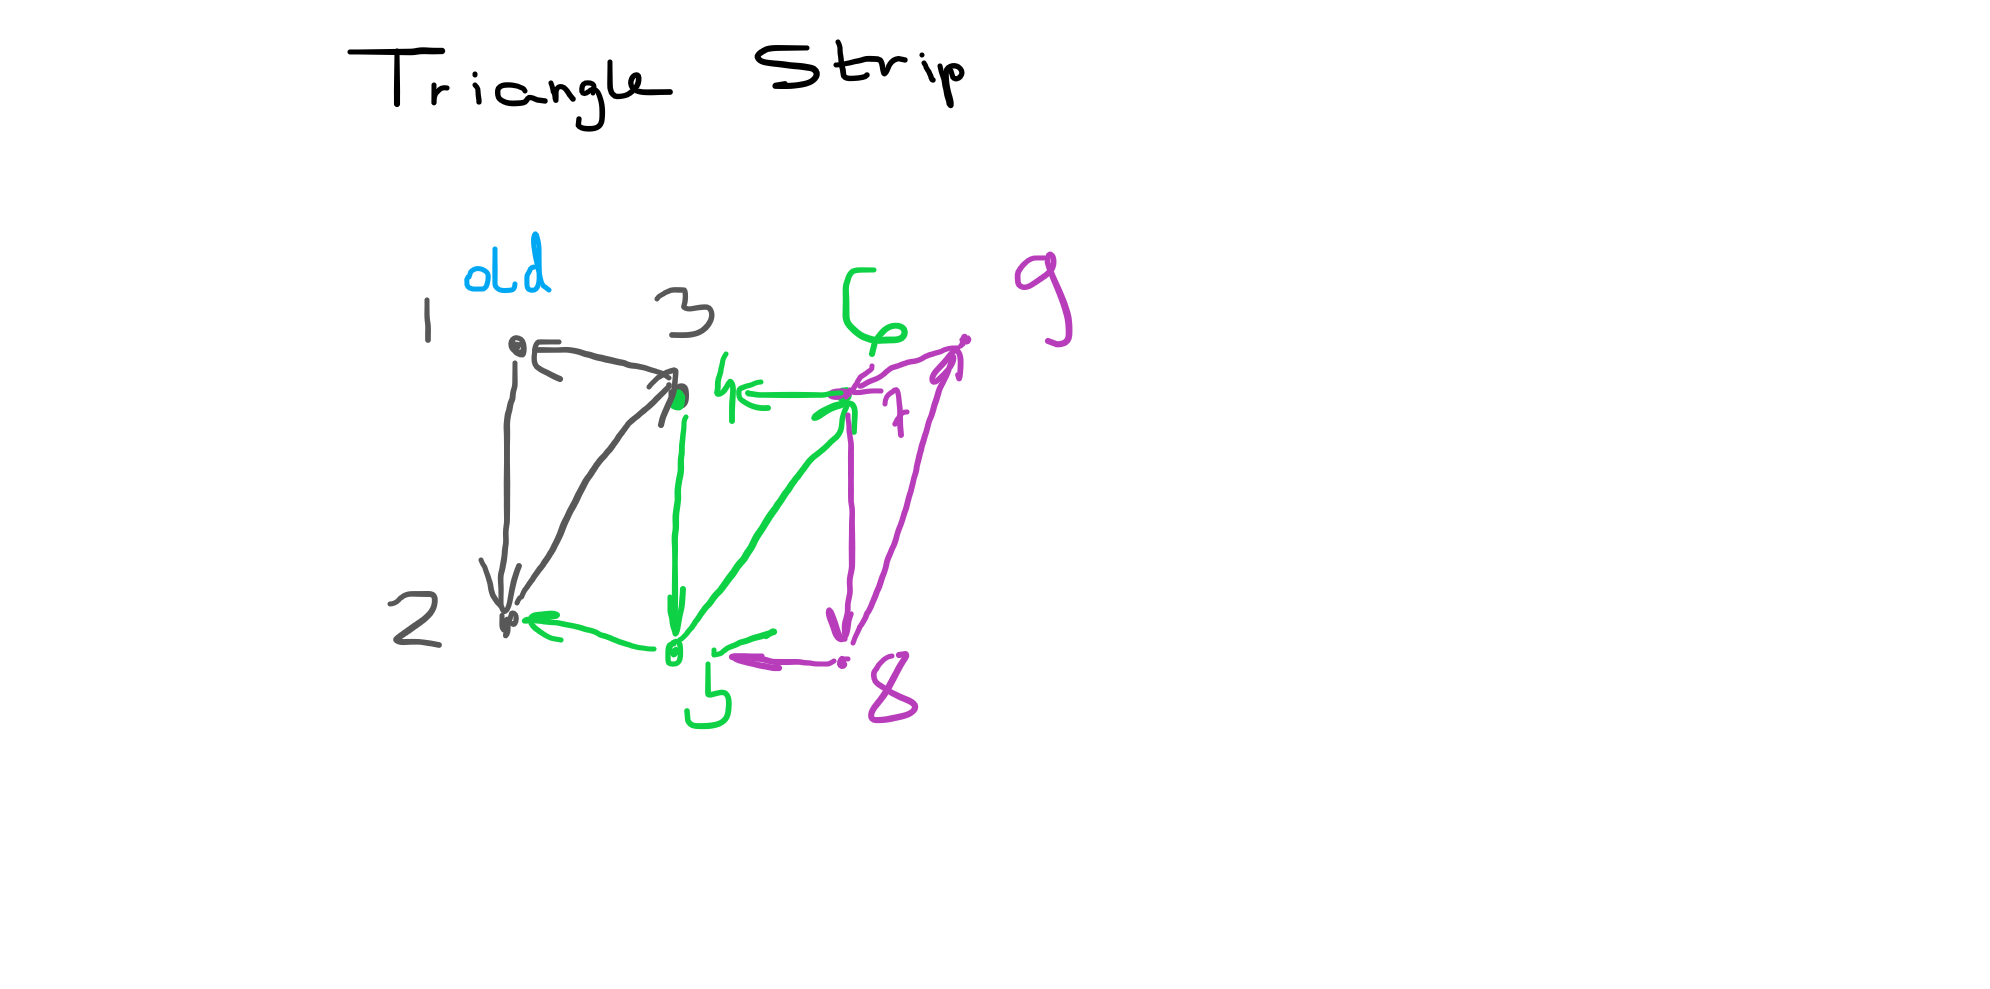
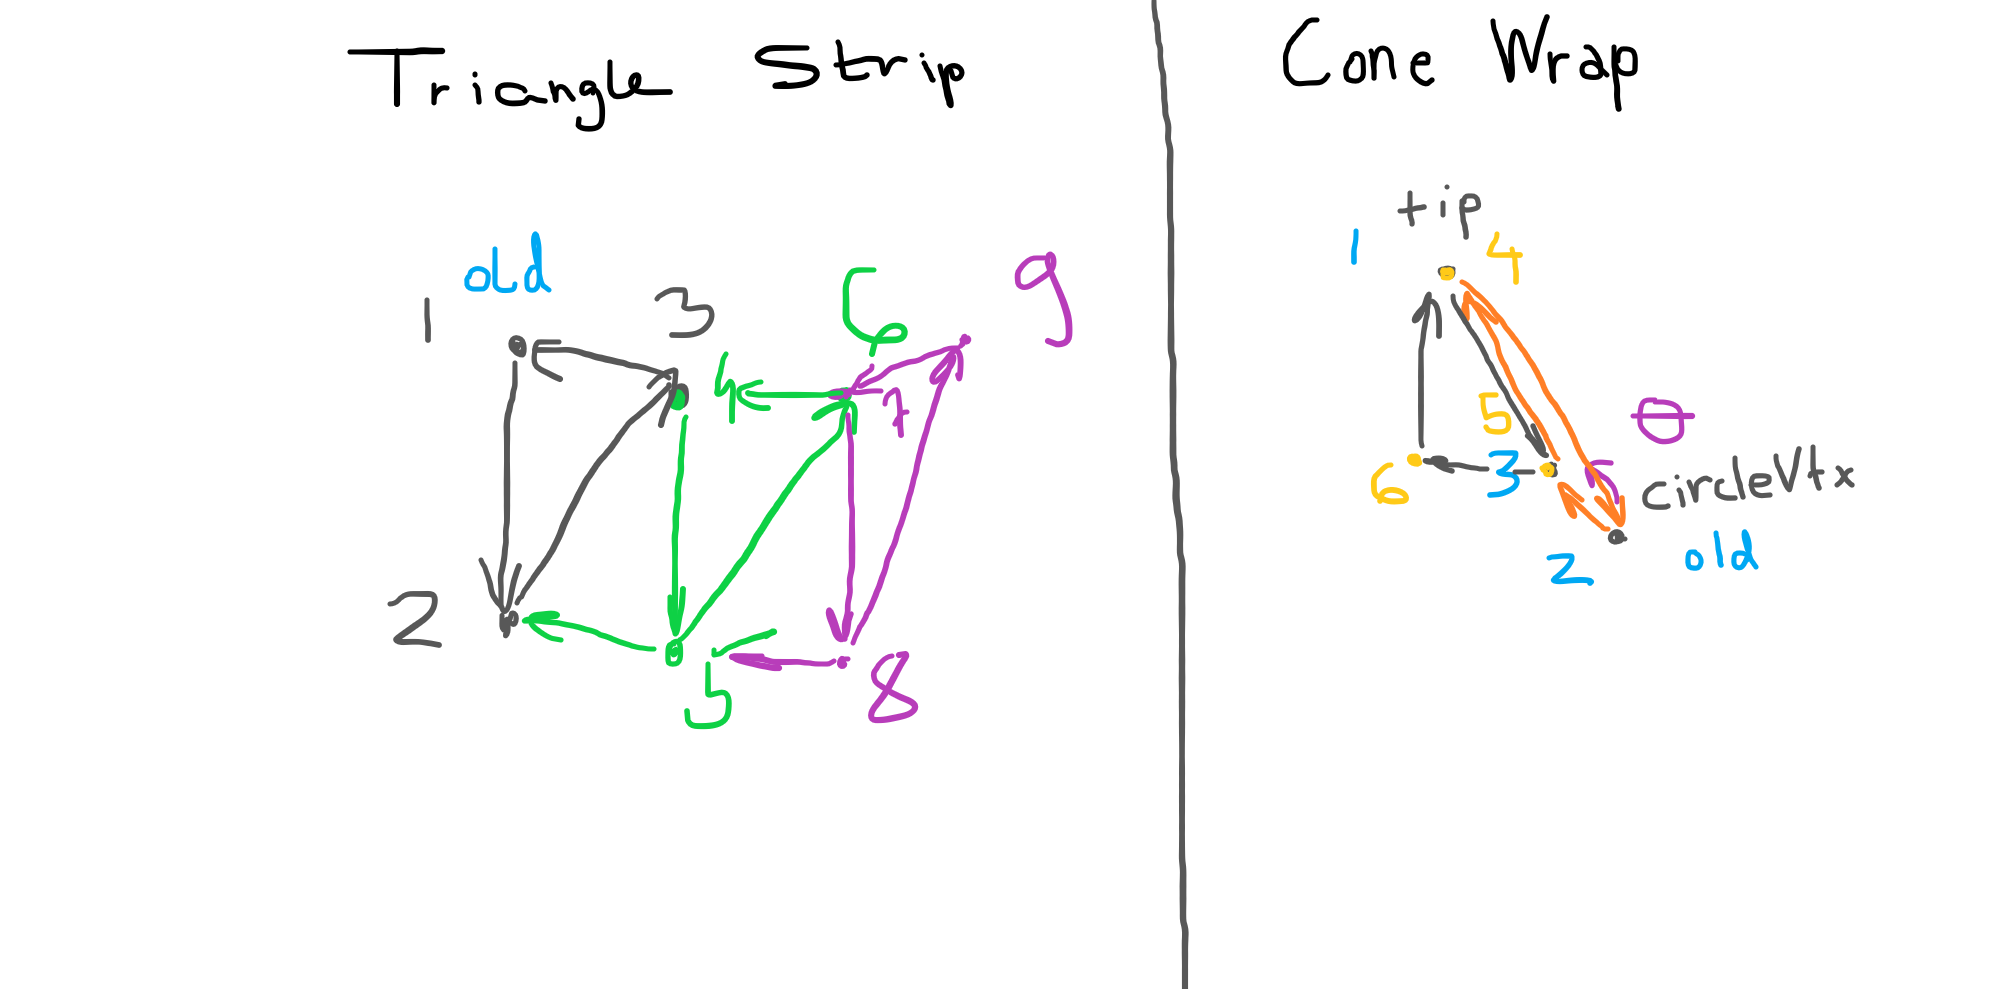
kupa osvetljena ispravno, poprecni presek

diff --git a/GeometrySolverWeb/public/main.js b/GeometrySolverWeb/public/main.js
@@ -266,6 +266,7 @@ function resetNotification()
     let notification = document.getElementById("notification");
     notification.style.backgroundColor = "rgb(90, 90, 95)";
     notification.innerHTML = "";
+    notification.style.color = "white";
 }
 
 let figureInput = document.createElement("div");
@@ -451,6 +452,7 @@ socket.on("message", message =>{
     let notification = document.getElementById("notification");
     notification.style.backgroundColor = "rgb(224, 164, 224)";
     notification.innerHTML = message;
+    notification.style.color = "black";
     setTimeout(resetNotification,2000);
 });
 
@@ -458,7 +460,6 @@ socket.on("comment",comment=>{
     let listaKomentara = document.getElementById("commentList");
     listaKomentara.value+=comment+"\n\n";
     listaKomentara.scrollTop = listaKomentara.scrollHeight;
-
 });
 
 // Data to be inserted
@@ -611,6 +612,7 @@ function drawCircle(dense,r)
     circleVertex = [size,0.0,0.0];
     vertexData.push(...circleVertex);
     colorData.push(...modelColor());
+    normalData.push(...[0.0,1.0,0.0]);
     for(i=0;i<density;i++)
     {
         circleVertex = [cosine*circleVertex[0]+sine*circleVertex[2],0.0,-sine*circleVertex[0]+cosine*circleVertex[2]];
@@ -618,8 +620,10 @@ function drawCircle(dense,r)
         vertexData.push(...circleVertex);
         colorData.push(...modelColor());
         colorData.push(...modelColor());
+        normalData.push(...[0.0,1.0,0.0]);
+        normalData.push(...[0.0,1.0,0.0]);
     }
-    webgl(gl.TRIANGLE_FAN,false);
+    webgl(gl.LINE_STRIP,false);
 }
 
 function drawCone(a,h,dense)
@@ -637,27 +641,17 @@ function drawCone(a,h,dense)
         let theta = (Math.PI*2)/density;
         let cosine = Math.cos(theta);
         let sine = Math.sin(theta);
+        circleVertex = [size,0.0,0.0];
 
         for(i=0;i<=density;i++)
         {
-            if(i==0)
-            {
-                coneTipVertex = [0.0,h,0.0];
-                vertexData.push(...coneTipVertex);
-                colorData.push(...modelColor());
-
-                normalData.push(...[0.0,1.0,0.0]);
-
-                circleVertex = [size,0.0,0.0];
-                vertexData.push(...circleVertex);
-                colorData.push(...modelColor());
-            }
-            else
-            {
-                vertexData.push(...circleVertex);
-                colorData.push(...modelColor());
-            }
+            coneTipVertex = [0.0,h,0.0];
+            vertexData.push(...coneTipVertex);
+            colorData.push(...modelColor());
             
+            vertexData.push(...circleVertex);
+            colorData.push(...modelColor());
+
             vector1=[circleVertex[0]-coneTipVertex[0],circleVertex[1]-coneTipVertex[1],circleVertex[2]-coneTipVertex[2]];
 
             circleVertexOld = circleVertex;
@@ -682,11 +676,8 @@ function drawCone(a,h,dense)
             normalData.push(...normalVector);
             normalData.push(...normalVector);
 
-            circleVertex = [cosine*circleVertex[0]+sine*circleVertex[2],0.0,-sine*circleVertex[0]+cosine*circleVertex[2]];
-            vertexData.push(...circleVertex);
-            colorData.push(...modelColor());
         }
-        webgl(gl.TRIANGLE_FAN,true);
+        webgl(gl.TRIANGLES,false);
     }
         
 }
@@ -765,7 +756,7 @@ function drawCylinder(a,b,dense)
             vertexData.push(...wrapVertexBottom);
             colorData.push(...modelColor());
         }
-        webgl(gl.TRIANGLE_STRIP,true);
+        webgl(gl.TRIANGLE_STRIP,false);
     }
 }
 

diff --git a/GeometrySolverWeb/server.js b/GeometrySolverWeb/server.js
@@ -17,6 +17,7 @@ const server = http.createServer(app);
 const io = socketio(server);
 const botName = "GeometrySolverBot";
 const port = 3000;
+var logUserSessions = false;
 
 mongoose.connect("mongodb://localhost:27017/GeometrySolver");
 
@@ -29,7 +30,10 @@ io.on("connection", socket =>{
 
   socket.emit("message",`${moment().format('LT')}: Dobrodosli u GeometrySolver`);
   // io.emit("comment",`#${botName}#: "${socket.id} has entered comment section"`);
-  console.log(`"#${socket.id}# has entered comment section"`);
+  if(logUserSessions == true)
+  {
+    console.log(`"#${socket.id}# has entered comment section"`);
+  }
 
   socket.on("comment",msg=>{
         const user = socket.id;
@@ -40,7 +44,10 @@ io.on("connection", socket =>{
     const user = socket.id;
     if(user){
         io.emit("comment",`#${botName}#: "${user} has left comment section"`);
-        console.log(`"#${socket.id}# has left comment section"`)
+        if(logUserSessions == true)
+        {
+          console.log(`"#${socket.id}# has left comment section"`)
+        }
     }
   })
 

diff --git a/GeometrySolverWeb/public/main.css b/GeometrySolverWeb/public/main.css
@@ -35,10 +35,12 @@ canvas
     flex:1 0;
     border-top-right-radius: 10px;
     background-color: rgb(90, 90, 95);
-    /* warning */
-    /* background-color: rgb(180, 138, 32); */
+    /* welcoming client */
+    /* background-color: rgb(224, 164, 224); */
     /* ok */
     /* background-color: rgb(20, 150, 20); */
+    /* warning */
+    /* background-color: rgb(180, 138, 32); */
     /* error */
     /* background-color: rgb(192, 64, 64); */
     color: white;
@@ -153,7 +155,7 @@ button
 {
     display: flex;
     flex-direction: column-reverse;
-    min-height: 200px;
+    min-height: 150px;
     background-color: rgb(44, 44, 48);
     padding: 5px;
 }
